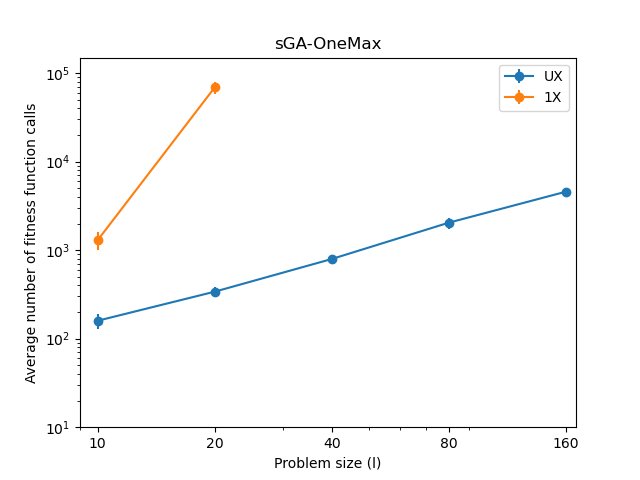
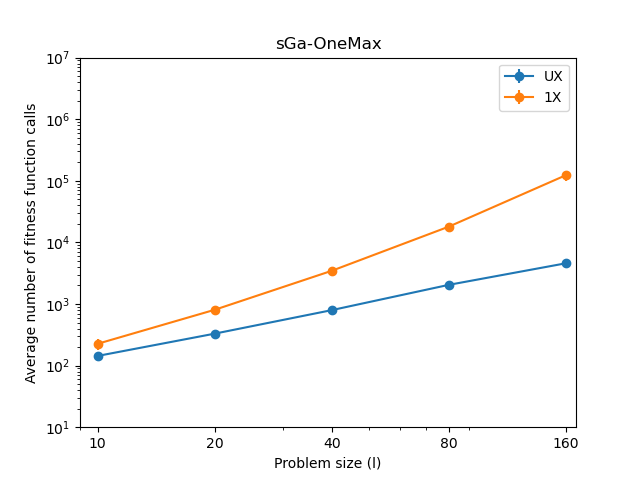
fix bug in plot_data.py, update new figures, update new log files

diff --git a/source/bisection_benchmark.py b/source/bisection_benchmark.py
@@ -22,7 +22,7 @@ def find_upper_bound(opt_method, user_options, func_inf, seeds):
         user_options.POP_SIZE = user_options.POP_SIZE * 2
         results = simple_GA_10_runs(opt_method, user_options, func_inf, seeds)
         success = np.sum(results[:, 0], axis=0) == len(seeds)
-        if not success and user_options.POP_SIZE >= 8192:
+        if not success and user_options.POP_SIZE >= 100000:
             return 0
         
     return user_options.POP_SIZE
@@ -69,7 +69,7 @@ def bisection_10_runs(id, opt_method, user_options, func_inf):
     return np.array(results)
 
 def report_df(id, opt_method, user_options, func_inf):
-    problem_sizes = [10 * 2**i for i in range(0, 5)]
+    problem_sizes = [10 * 2**i for i in range(4, 5)]
     results = []
     for size in problem_sizes:
         user_options.PROBLEM_SIZE = size
@@ -96,12 +96,12 @@ user_options.TOURNAMENT_SIZE = 4
 ##
 
 ##
-user_options.CROSSOVER_MODE = pp.Crossover.ONEPOINT
-func_inf = ff.FuncInf("One Max", ff.onemax)
+# user_options.CROSSOVER_MODE = pp.Crossover.ONEPOINT
+# func_inf = ff.FuncInf("One Max", ff.onemax)
 
-df = report_df(id, pp.POPOP, user_options, func_inf)
-df_name = 'sGA-1X-OneMax'
-df.to_csv('../report/{}.csv'.format(df_name))
+# df = report_df(id, pp.POPOP, user_options, func_inf)
+# df_name = 'sGA-1X-OneMax'
+# df.to_csv('../report/{}.csv'.format(df_name))
 ##
 
 ##

diff --git a/source/plot_data.py b/source/plot_data.py
@@ -37,13 +37,17 @@ def plot(data, label, title, plot_eval=False, hold=False):
 fig, ax = plt.subplots()
 filename = 'sGA-UX-TrapFive.csv'
 df = pd.read_csv('../report/{}'.format(filename))
-ux_onemax = df.to_numpy()
+df = df[df.MRPS != '-']
+ux = df.to_numpy()
+ux = np.array(ux, dtype=np.float)
 
-plot(ux_onemax, 'UX', 'sGA-TrapFive', False, True)
+plot(ux, 'UX', 'sGA-TrapFive', False, True)
 
 filename = 'sGA-1X-TrapFive.csv'
 df = pd.read_csv('../report/{}'.format(filename))
-ux_onemax = df.to_numpy()
+df = df[df.MRPS != '-']
+onepoint = df.to_numpy()
+onepoint = np.array(onepoint, dtype=np.float)
 
-plot(ux_onemax, '1X', 'sGA-TrapFive', False)
+plot(onepoint, '1X', 'sGa-TrapFive', False, False)
 
